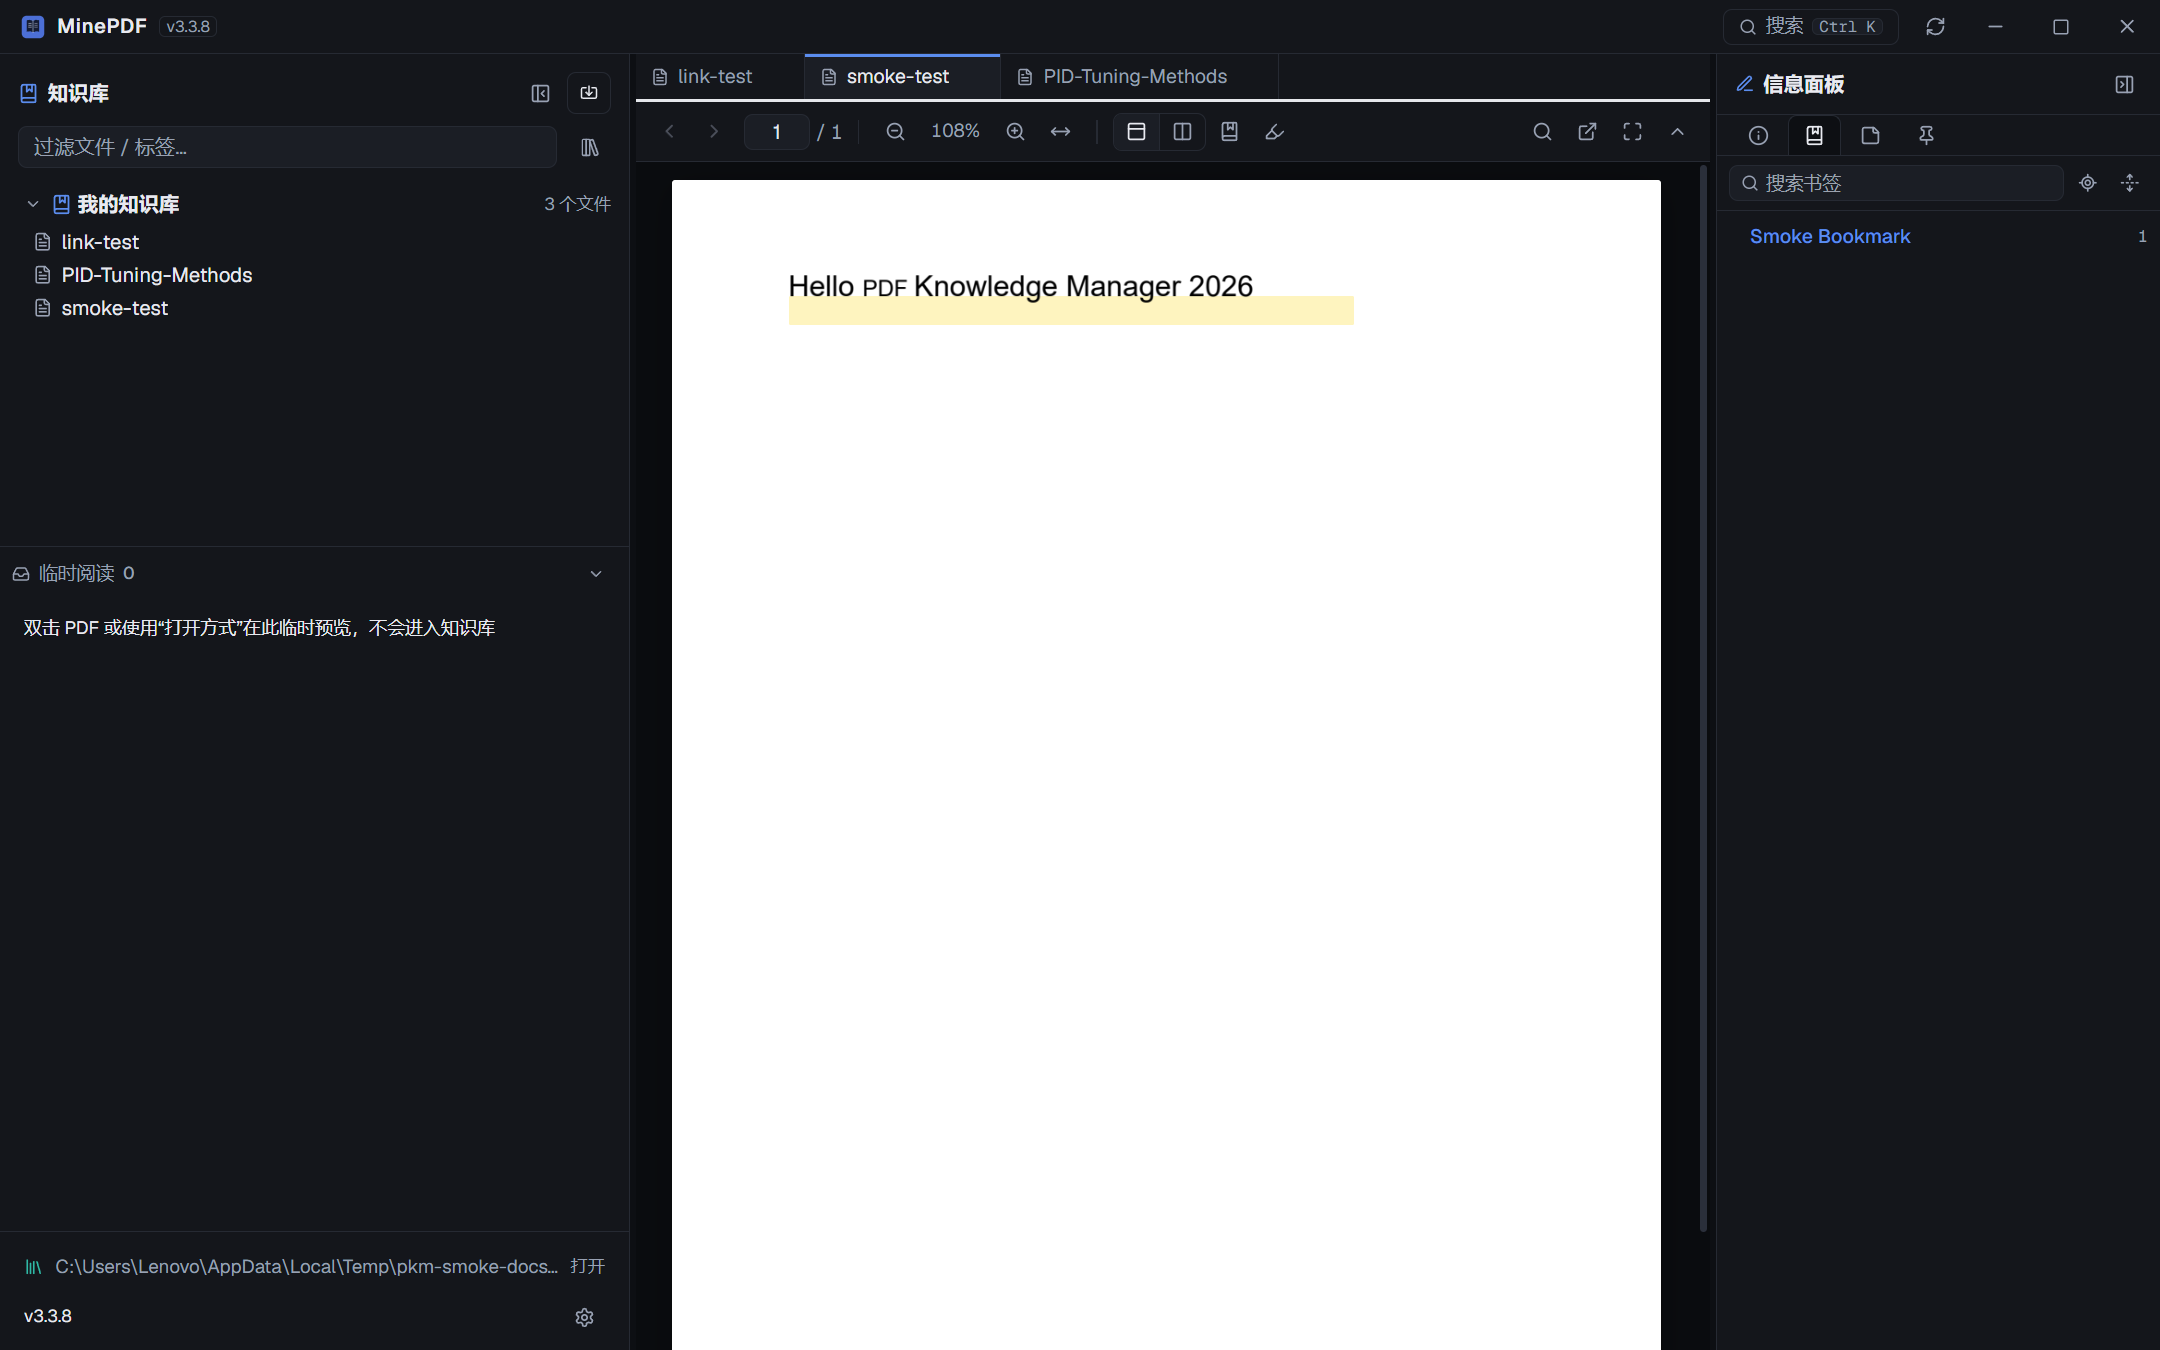
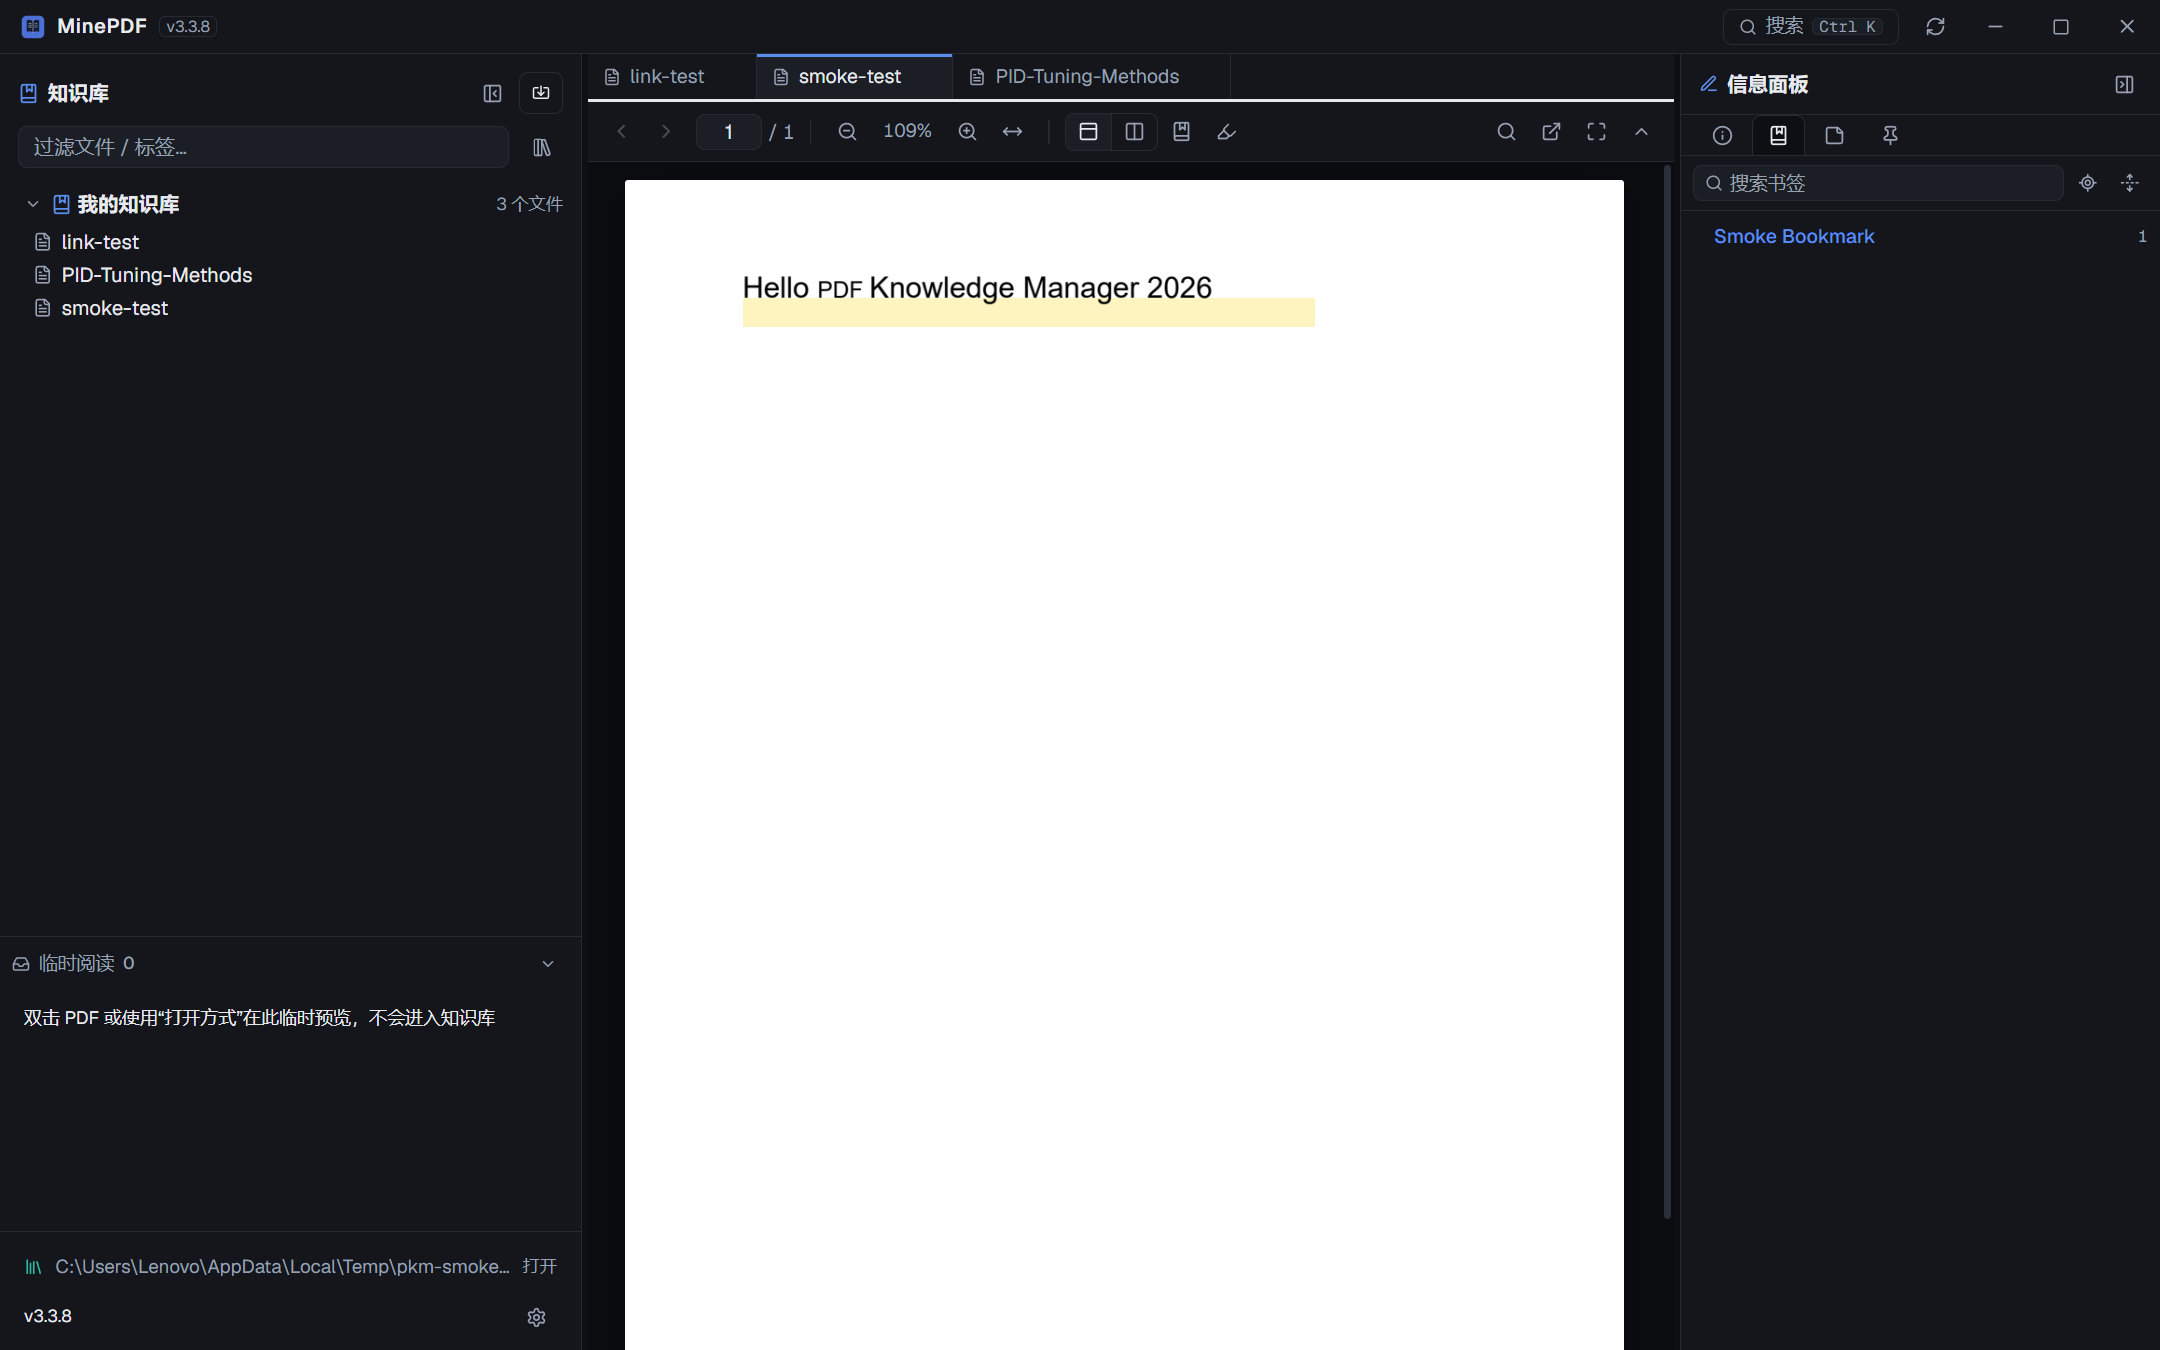
docs: 更新 README 配图（主界面/分屏/图文笔记），截图由冒烟捕获流程自动生成

diff --git a/electron/main.ts b/electron/main.ts
@@ -996,6 +996,19 @@ async function createMainWindow(): Promise<BrowserWindow> {
                 fs.mkdirSync(outDir, { recursive: true });
                 fs.writeFileSync(path.join(outDir, 'app-screenshot.png'), image.toPNG());
                 console.log('[capture] main window saved to docs/app-screenshot.png');
+                // README 配图 1：主界面（切换到真实论文 PDF 再拍，三栏布局完整可见）
+                const picDir = path.join(process.cwd(), 'pic');
+                fs.mkdirSync(picDir, { recursive: true });
+                await win.webContents.executeJavaScript(`(async () => {
+                  const snap = await window.pkm.getSnapshot();
+                  const pid = snap.pdfs.find((p) => p.filename === 'PID-Tuning-Methods.pdf');
+                  if (pid) window.__pkmOpenPdf(pid.id);
+                  return true;
+                })()`);
+                await new Promise((r) => setTimeout(r, 1600));
+                const shotMain = await win.webContents.capturePage();
+                fs.writeFileSync(path.join(picDir, 'shot-main.png'), shotMain.toPNG());
+                console.log('[capture] saved pic/shot-main.png');
                 // 文档切换验证：A -> B -> A，每步都应有实际渲染内容
                 try {
                   fs.mkdirSync(path.dirname(autoScanPdfPath), { recursive: true });
@@ -1318,6 +1331,11 @@ async function createMainWindow(): Promise<BrowserWindow> {
                   })()
                 `);
                 console.log('[capture] paneDiag', JSON.stringify(paneDiag));
+                // README 配图 2：分屏阅读（两个独立阅读屏 + 信息面板）
+                await new Promise((r) => setTimeout(r, 400));
+                const shotSplit = await win.webContents.capturePage();
+                fs.writeFileSync(path.join(picDir, 'shot-split.png'), shotSplit.toPNG());
+                console.log('[capture] saved pic/shot-split.png');
                 // 单屏放大：验证 PDF 放大不会挤压信息面板，且信息面板上 Ctrl+滚轮不触发缩放
                 const zoomDiag = await win.webContents.executeJavaScript(`
                   (async () => {
@@ -1560,6 +1578,11 @@ async function createMainWindow(): Promise<BrowserWindow> {
                   })()
                 `);
                 console.log('[capture] shotDiag', JSON.stringify(shotDiag));
+                // README 配图 3：图文笔记（笔记面板 + 截图插入 + LaTeX）
+                await new Promise((r) => setTimeout(r, 400));
+                const shotNotes = await win.webContents.capturePage();
+                fs.writeFileSync(path.join(picDir, 'shot-notes.png'), shotNotes.toPNG());
+                console.log('[capture] saved pic/shot-notes.png');
                 // 知识库自动折叠开关：开启后打开 PDF 自动收起，悬停左边缘临时展开，移出自动收起
                 const autoHideDiag = await win.webContents.executeJavaScript(`
                   (async () => {

diff --git a/README.md b/README.md
@@ -8,21 +8,21 @@
 
 ### 简洁界面
 
-深色科研风格三栏布局：左侧文件库、中间阅读器、右侧信息面板，干净高效。
+深色科研风格三栏布局：左侧知识库文件树、中间 PDF 阅读器、右侧信息面板，干净高效，大文件秒开。
 
-![简洁界面](pic/1.png)
+![主界面](pic/shot-main.png)
 
-### 功能丰富
+### 分屏阅读
 
-文件夹树与本地目录双向同步、标签筛选、书签跳转、高亮标注、全局搜索、临时阅读区、自动更新，一应俱全。
+支持网页式标签页与上下/左右分屏：每个屏都是独立的阅读区，拥有自己的标签栏、缩放与书签，互不干扰。
 
-![功能丰富](pic/2.png)
+![分屏阅读](pic/shot-split.png)
 
 ### 图文笔记
 
-Markdown 笔记支持截图插入，图文并茂边读边记，并可直接导出为 PDF。
+Markdown 笔记支持截图框选插入与 LaTeX 公式，图文并茂边读边记，可导出为 PDF。
 
-![笔记功能](pic/3.png)
+![图文笔记](pic/shot-notes.png)
 
 ## 核心功能
 
